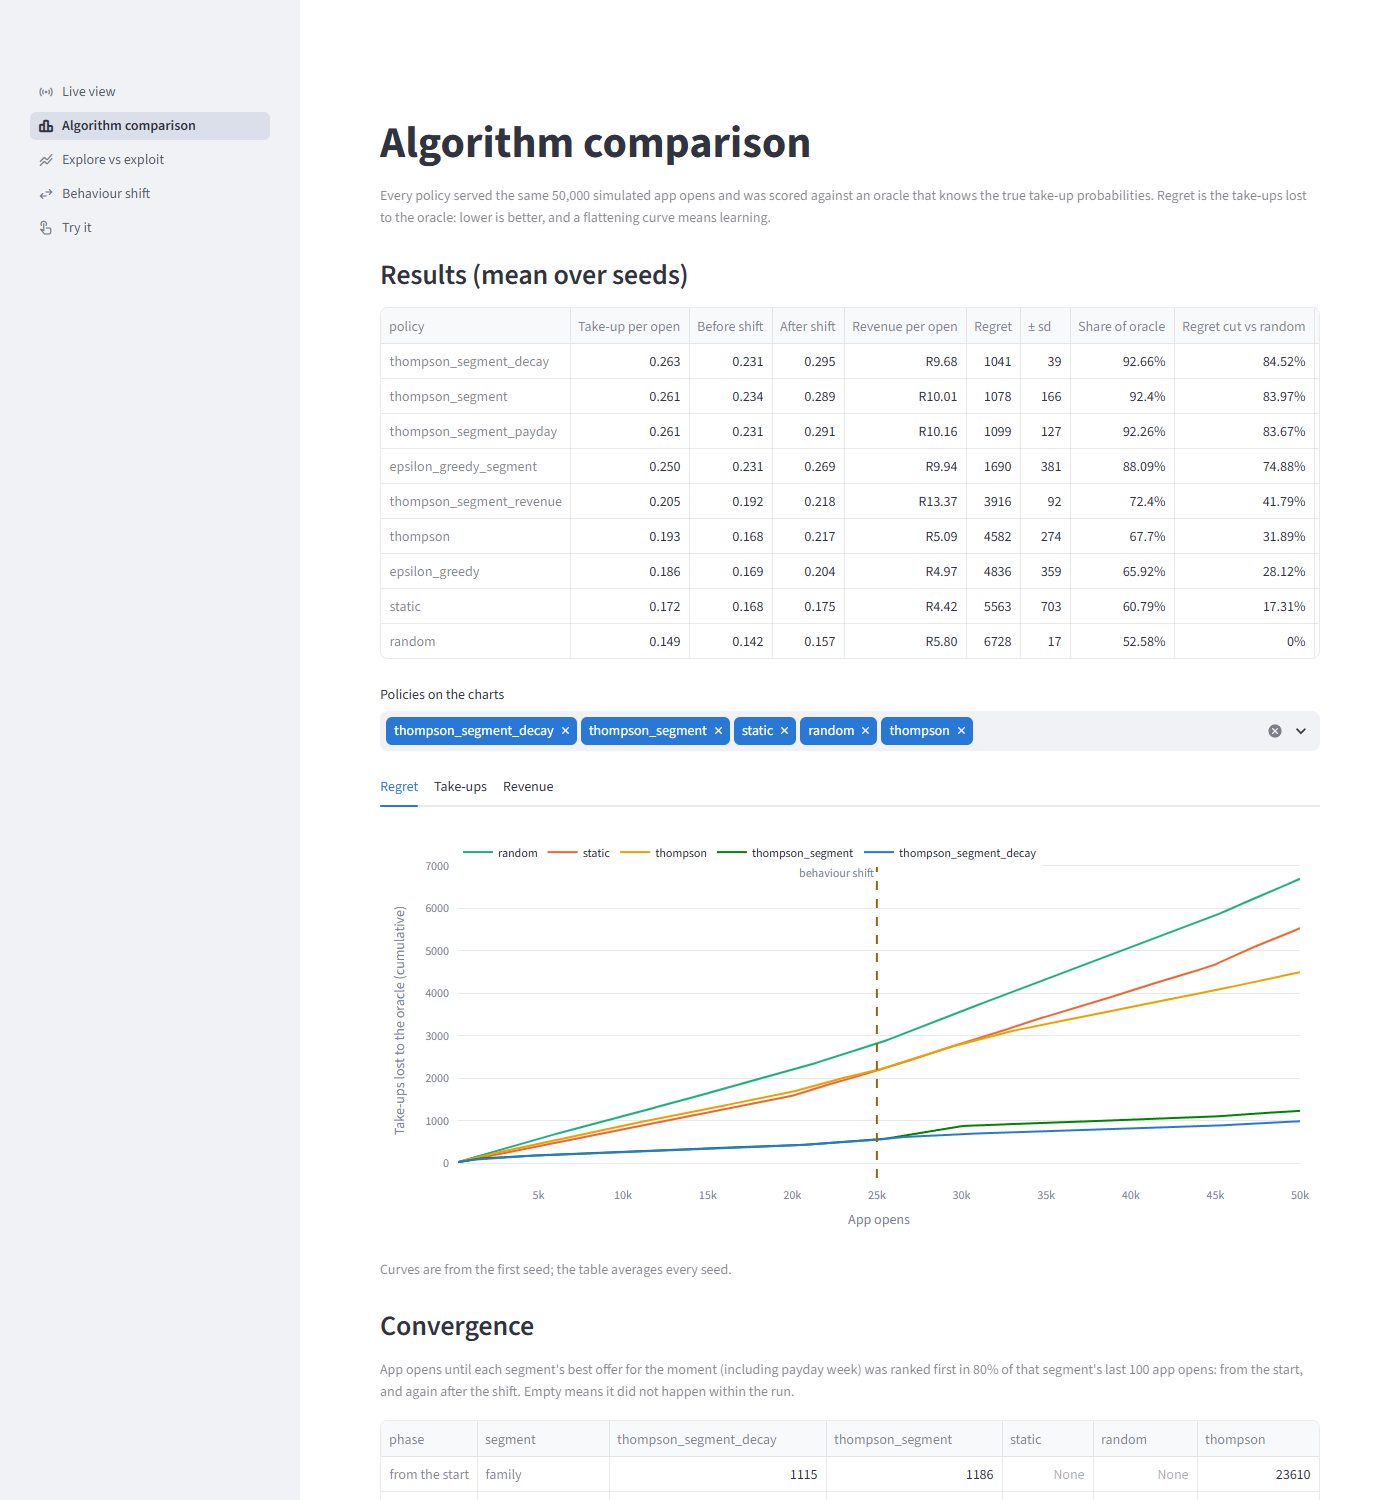
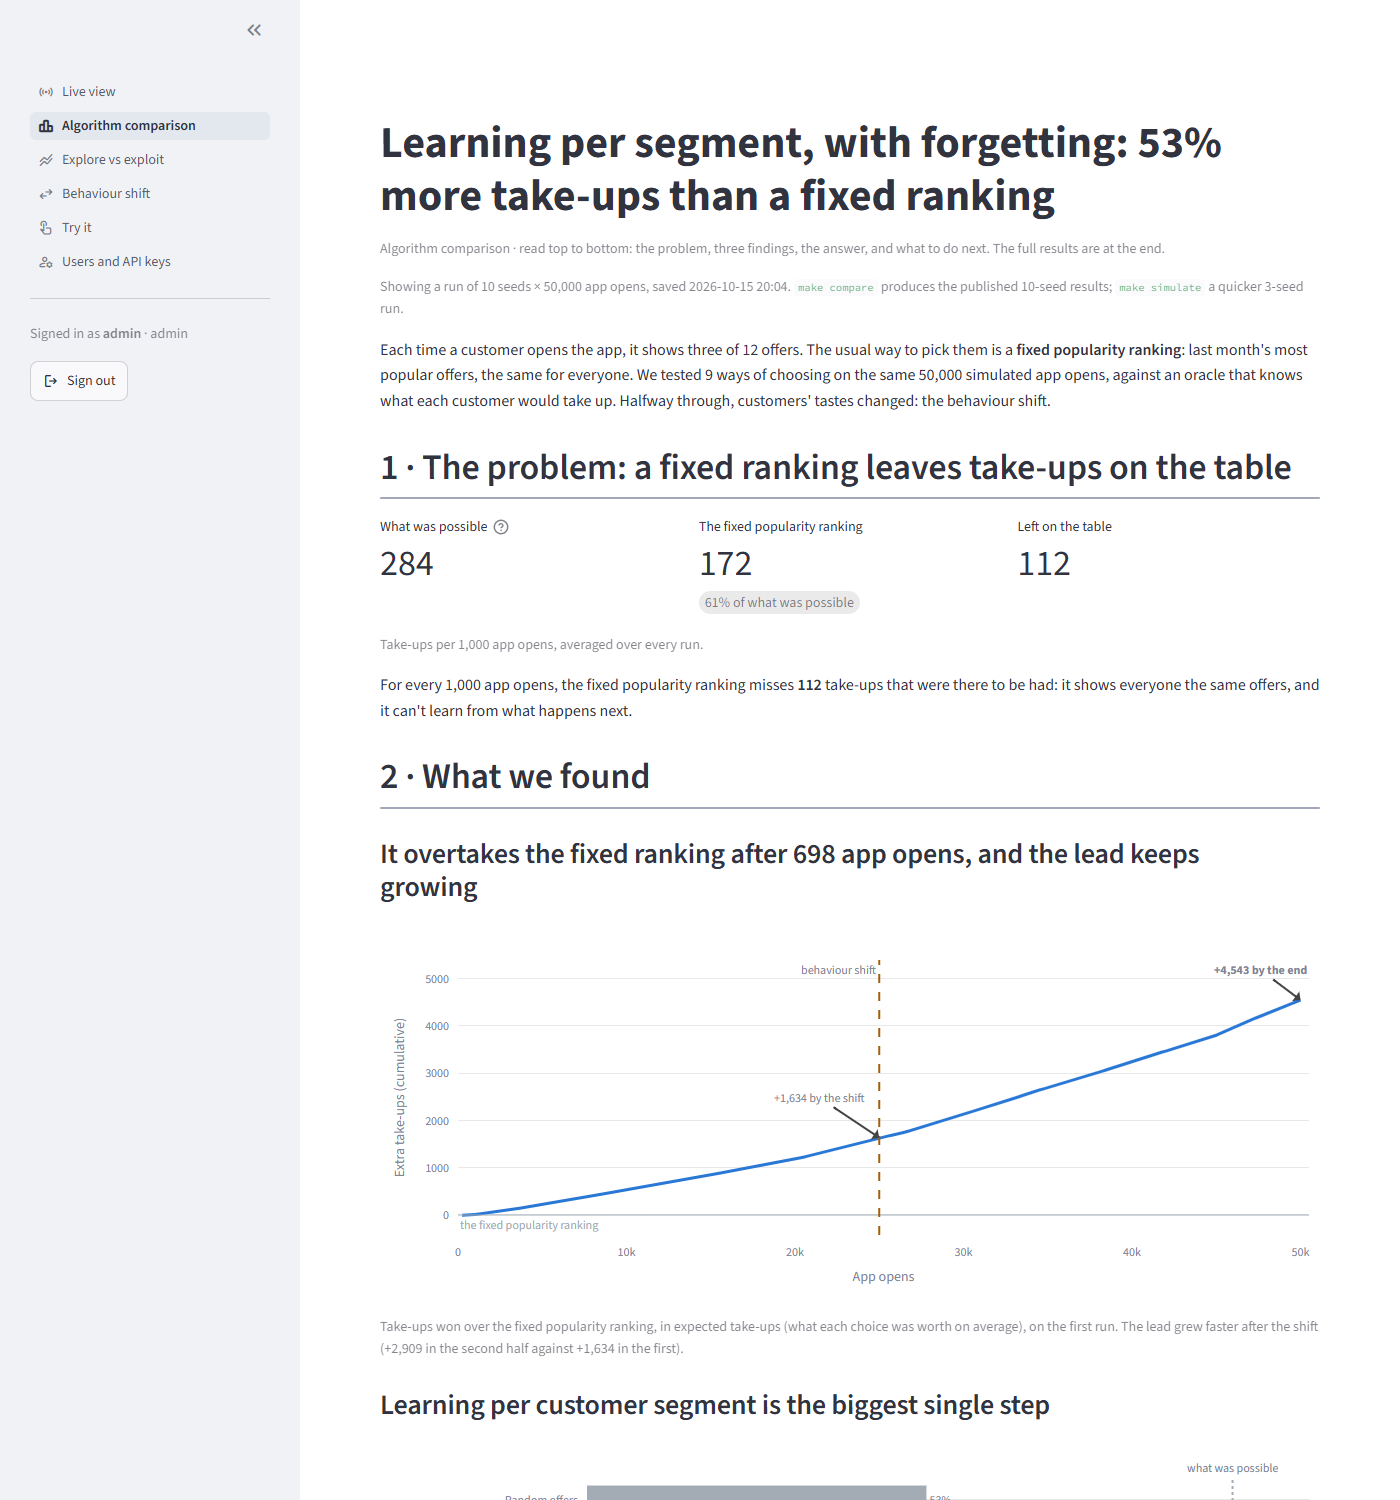
docs: story-led comparison page, sign-in and users pages; fresh screenshots
make screenshots now signs in with an admin account and moves through the
sidebar (a sign-in lasts one browser session), and also captures the
sign-in and Users and API keys pages. Decision E10; E9 updated.

diff --git a/docs/dashboard.html b/docs/dashboard.html
@@ -47,14 +47,16 @@
 <header class="page-head">
   <p class="eyebrow">Dashboard · Phase 5</p>
   <h1>Watching the recommender learn</h1>
-  <p class="lede">Five Streamlit pages: the live event log, the head-to-head comparison, the beliefs behind each ranking, the behaviour shift, and a page where you play the customer and watch the model update.</p>
+  <p class="lede">Everyone signs in first. Then five Streamlit pages: the live event log, the comparison told as a data story, the beliefs behind each ranking, the behaviour shift, and a page where you play the customer and watch the model update. Admins also manage users and API keys.</p>
   <ul class="toc">
     <li><a href="#run">Run it</a></li>
+    <li><a href="#sign-in">Signing in</a></li>
     <li><a href="#live">Live view</a></li>
     <li><a href="#comparison">Algorithm comparison</a></li>
     <li><a href="#beliefs">Explore vs exploit</a></li>
     <li><a href="#shift">Behaviour shift</a></li>
     <li><a href="#try">Try it</a></li>
+    <li><a href="#users">Users and API keys</a></li>
     <li><a href="#data">Where the data comes from</a></li>
     <li><a href="#tests">How it is tested</a></li>
   </ul>
@@ -68,6 +70,12 @@ make dashboard   # http://localhost:8501</code></pre>
   <p>That is the brief's definition of done, verified on a fresh clone with no <code>.env</code>: everything falls back to a local SQLite file and no API server is needed. <code>make simulate</code> takes about four minutes there. Run <code>make compare</code> instead for the published 10-seed results; every results page says which run it is showing.</p>
 </section>
 
+<section aria-labelledby="sign-in">
+  <h2 id="sign-in">Signing in</h2>
+  <p>Accounts live in the <code>users</code> table of the project database, with passwords stored only as salted hashes. On an empty database the first screen creates the admin account instead (or run <code>python manage.py createsuperuser</code>). Viewers see the live view and the results; admins also get Try it, which changes the model, and Users and API keys. A sign-in lasts for the browser tab.</p>
+  <figure class="fig"><img src="assets/screenshots/sign-in.png" alt="The sign-in page: username and password fields under the dashboard's name." loading="lazy"><figcaption><span>Reads and writes the users table. Decisions AC1–AC6.</span></figcaption></figure>
+</section>
+
 <section aria-labelledby="live">
   <h2 id="live">Live view</h2>
   <p>App opens and their outcomes as they reach the event log, refreshing every 3 seconds, and the serving policy's current top three offers per context. Start a simulation through the API (<code>python scripts/run_simulation.py --mode api</code>) and watch it fill.</p>
@@ -76,8 +84,16 @@ make dashboard   # http://localhost:8501</code></pre>
 
 <section aria-labelledby="comparison">
   <h2 id="comparison">Algorithm comparison</h2>
-  <p>The results table, cumulative regret, take-ups and revenue for any set of policies (each keeps one colour on every chart), and convergence: how many app opens each policy needed before each segment's best offer led, from the start and again after the shift.</p>
-  <figure class="fig"><img src="assets/screenshots/comparison.png" alt="Algorithm comparison: the results table and cumulative regret curves per policy, with the behaviour shift marked." loading="lazy"><figcaption><span>Reads results/: comparison.csv, comparison_rounds.parquet, convergence.csv.</span></figcaption></figure>
+  <p>Told as a data story, following Brent Dykes' storytelling arc, so the message gets through to someone who reads it once:</p>
+  <ol>
+    <li><strong>A headline that is the finding</strong> ("53% more take-ups than a fixed ranking"), not the topic.</li>
+    <li><strong>Setting and hook:</strong> what was possible (284 take-ups per 1,000 app opens), what the fixed popularity ranking gets (172), and what it leaves on the table.</li>
+    <li><strong>Three rising insights, one chart and one message each:</strong> the learner overtakes the fixed ranking after about 700 app opens and keeps pulling away; learning per customer segment is the biggest single step; when customers changed, only the learner followed. Colour goes only to what the message is about; everything else is grey, and the key points are annotated.</li>
+    <li><strong>The aha moment:</strong> "91 more take-ups for every 1,000 app opens", with how many runs agree and the honest note that the closest variants tie.</li>
+    <li><strong>What to do next:</strong> serve the policy, decide between take-ups and revenue, prove it on real traffic with a holdout, keep watching.</li>
+  </ol>
+  <p>Plain names replace policy ids for a business reader. Every number and claim is computed from the run on disk by <code>recommender.evaluation.story</code>, so a 3-seed run says "of 3 runs" and never borrows the published numbers. The full table, curves for any set of policies and convergence sit in an expander at the end.</p>
+  <figure class="fig"><img src="assets/screenshots/comparison.png" alt="Algorithm comparison as a story: the headline finding, the hook figures 284, 172 and 112 take-ups per 1,000 app opens, and the first finding's chart of extra take-ups over the fixed ranking." loading="lazy"><figcaption><span>Reads results/: comparison.csv, comparison_by_seed.csv, comparison_rounds.parquet, convergence.csv.</span></figcaption></figure>
 </section>
 
 <section aria-labelledby="beliefs">
@@ -95,7 +111,14 @@ make dashboard   # http://localhost:8501</code></pre>
 <section aria-labelledby="try">
   <h2 id="try">Try it</h2>
   <p>Pick a segment, a customer, a policy and optionally the moment; open the app; then take up, view or ignore each offer and see the belief for that offer update. It calls the API server if one is running, otherwise the same FastAPI app inside the dashboard, so the code path is identical. Every click is real learning in the database.</p>
-  <figure class="fig"><img src="assets/screenshots/try-it.png" alt="Try it: three ranked offers for a student; the first was taken up and the belief rose from 21.8 percent to 22.1 percent." loading="lazy"><figcaption><span>Calls POST /invocations, POST /response and GET /policies/{name}/state.</span></figcaption></figure>
+  <p>Admins only, since every click changes the model.</p>
+  <figure class="fig"><img src="assets/screenshots/try-it.png" alt="Try it: three ranked offers for a student; the first, a savings pocket, was taken up and its belief rose from 5.0 percent to 9.5 percent on little evidence." loading="lazy"><figcaption><span>Calls POST /invocations, POST /response and GET /policies/{name}/state.</span></figcaption></figure>
+</section>
+
+<section aria-labelledby="users">
+  <h2 id="users">Users and API keys</h2>
+  <p>Admins only. Add users as viewers or admins, change passwords, remove users, and create or revoke API keys. A new key is shown once and stored only as a hash. Whether the API requires keys is one setting in <code>.env</code>: <code>RECOMMENDER_REQUIRE_API_KEY</code>.</p>
+  <figure class="fig"><img src="assets/screenshots/users.png" alt="Users and API keys: a table of users with roles and last sign-in, forms to add a user and change a password, and the API keys section." loading="lazy"><figcaption><span>Reads and writes the users and api_keys tables.</span></figcaption></figure>
 </section>
 
 <section aria-labelledby="data">
@@ -105,10 +128,11 @@ make dashboard   # http://localhost:8501</code></pre>
       <thead><tr><th>Page</th><th>Reads</th><th>Up to date</th></tr></thead>
       <tbody>
         <tr><td>Live view</td><td>Event log and options store in the database</td><td>Every 3 seconds</td></tr>
-        <tr><td>Algorithm comparison</td><td><code>results/comparison.csv</code>, <code>comparison_rounds.parquet</code>, <code>convergence.csv</code></td><td>When a new run is saved</td></tr>
+        <tr><td>Algorithm comparison</td><td><code>results/comparison.csv</code>, <code>comparison_by_seed.csv</code>, <code>comparison_rounds.parquet</code>, <code>convergence.csv</code></td><td>When a new run is saved</td></tr>
         <tr><td>Explore vs exploit</td><td><code>results/comparison_snapshots.parquet</code></td><td>When a new run is saved</td></tr>
         <tr><td>Behaviour shift</td><td><code>results/comparison_rounds.parquet</code>, <code>convergence.csv</code></td><td>When a new run is saved</td></tr>
         <tr><td>Try it</td><td>The API</td><td>Live</td></tr>
+        <tr><td>Users and API keys</td><td>The users and api_keys tables</td><td>Live</td></tr>
       </tbody>
     </table>
   </div>

diff --git a/docs/decisions.html b/docs/decisions.html
@@ -344,7 +344,8 @@
 <tr><td>E6</td><td>The live view uses plain tables (<code>st.table</code>), not interactive grids.</td><td>Grids re-mount on every 3-second refresh and flash empty; 15 rows read better as a table.</td></tr>
 <tr><td>E7</td><td>Dashboard tests use Streamlit's AppTest against a throwaway SQLite database and results folder, redirected with <code>RECOMMENDER_DATABASE_URL</code>, <code>RECOMMENDER_RESULTS</code> and <code>RECOMMENDER_API_URL</code>. They check content and click through Try it.</td><td>The first version only checked for exceptions and read the real Postgres. Now nothing real is touched (event counts were identical before and after a test run), and the main user flow is proven.</td></tr>
 <tr><td>E8</td><td>One fixed colour per policy on every chart (the docs' categorical palette, in order; a ninth policy is grey), and the shift marked on every time chart.</td><td>Colour follows the policy, never its rank or the chart, so a reader can follow a policy across pages.</td></tr>
-<tr><td>E9</td><td>Screenshots come from <code>make screenshots</code> (Playwright driving the installed Chrome or Edge).</td><td>Reproducible images for the README and docs without a browser download.</td></tr>
+<tr><td>E9</td><td>Screenshots come from <code>make screenshots</code> (Playwright driving the installed Chrome or Edge). It signs in with an admin account and moves between pages through the sidebar, because a sign-in lasts for one browser session.</td><td>Reproducible images for the README and docs without a browser download.</td></tr>
+<tr><td>E10</td><td><strong>The comparison page tells a story</strong> (Brent Dykes' data storytelling arc). The headline is the finding. The setting and hook show what was possible against what a fixed ranking gets. Three findings follow, one chart and one message each, with colour only on what the message is about. Then the answer in one sentence, and next steps. Plain names replace policy ids. The full tables are folded away at the end.</td><td>A reader who sees the page once should leave with the message, not a table to decode. All the numbers come from <code>recommender.evaluation.story</code>, which computes them from the run on disk, counts how many runs back each claim, and says when the top policies tie, so the story can't overstate the evidence.</td></tr>
 </tbody></table></div>
 <h3 id="log-phase-6-quality-and-delivery">Phase 6: Quality and delivery</h3>
 <div class="table-wrap"><table class="decision-log">

diff --git a/docs/stack.html b/docs/stack.html
@@ -176,6 +176,7 @@
 <tr><td>Result pages explain how to get results</td><td class="num">3</td></tr>
 <tr><td>Live view counts the logged app opens</td><td class="num">1</td></tr>
 <tr><td>Comparison lists every policy and says which run</td><td class="num">1</td></tr>
+<tr><td>Comparison tells the story in order</td><td class="num">1</td></tr>
 <tr><td>Try it updates the model</td><td class="num">1</td></tr>
 <tr><td>First run creates the admin and signs in</td><td class="num">1</td></tr>
 <tr><td>Sign in needs the right password</td><td class="num">1</td></tr>
@@ -292,8 +293,13 @@
 <tr><td>Sqlite store persists across connections</td><td class="num">1</td></tr>
 <tr><td>Alpha and beta are computed by the database</td><td class="num">1</td></tr>
 <tr><td>Copy options migrates every row and can be rerun</td><td class="num">1</td></tr>
+<tr><th colspan="2" scope="rowgroup"><code>tests/test_story.py</code> · </th></tr>
+<tr><td>The story of a run</td><td class="num">1</td></tr>
+<tr><td>When the learner overtakes the baseline</td><td class="num">1</td></tr>
+<tr><td>Gap curve samples the cumulative lead</td><td class="num">1</td></tr>
+<tr><td>Plain names for a business audience</td><td class="num">1</td></tr>
 </tbody>
-<caption>162 test cases in 147 test functions.</caption></table></div>
+<caption>167 test cases in 152 test functions.</caption></table></div>
 <!-- END generated:tests -->
   <p class="source">Collected from tests/ · rebuilt by make docs</p>
 </section>

diff --git a/docs/index.html b/docs/index.html
@@ -62,7 +62,7 @@
 <div><dt>synthetic customers</dt><dd>5,000</dd></div>
 <div><dt>simulated days</dt><dd>60</dd></div>
 <div><dt>context effects</dt><dd>14</dd></div>
-<div><dt>automated tests</dt><dd>162</dd></div>
+<div><dt>automated tests</dt><dd>167</dd></div>
 </dl>
 <!-- END generated:facts -->
   <p class="source">From config/, the simulator and tests/ · rebuilt by <code>make docs</code></p>

diff --git a/scripts/screenshots.py b/scripts/screenshots.py
@@ -1,25 +1,32 @@
 """Screenshot every dashboard page, for the README and the docs.
 
-Usage:  python scripts/screenshots.py [--url http://localhost:8501]      (make screenshots)
-Needs the dashboard running (make dashboard) and Chrome or Edge installed; Playwright
-drives the installed browser, so no browser download is needed.
+Usage:  python scripts/screenshots.py [--url http://localhost:8501] [--username admin]
+                                                                        (make screenshots)
+Needs the dashboard running (make dashboard), an admin account to sign in with (the
+password from RECOMMENDER_SCREENSHOT_PASSWORD, or asked for), and Chrome or Edge
+installed; Playwright drives the installed browser, so no browser download is needed.
+A sign-in lasts for one browser session, so the pages are reached through the sidebar,
+not by URL.
 """
 
 from __future__ import annotations
 
 import argparse
+import getpass
+import os
 from pathlib import Path
 
 from playwright.sync_api import Page, sync_playwright
 
 from recommender.config import PROJECT_ROOT
 
-PAGES = {  # file name -> URL path
-    "live": "",
-    "comparison": "comparison",
-    "beliefs": "beliefs",
-    "shift": "shift",
-    "try-it": "try_it",
+PAGES = {  # file name -> the page's name in the sidebar
+    "live": "Live view",
+    "comparison": "Algorithm comparison",
+    "beliefs": "Explore vs exploit",
+    "shift": "Behaviour shift",
+    "try-it": "Try it",
+    "users": "Users and API keys",
 }
 
 
@@ -32,14 +39,27 @@ def wait_until_drawn(page: Page) -> None:
     page.wait_for_timeout(3000)  # let Plotly finish its layout
 
 
+def sign_in(page: Page, username: str, password: str) -> None:
+    """Fill in the sign-in form and wait for the first page behind it."""
+    page.get_by_role("textbox", name="Username").fill(username)
+    page.get_by_role("textbox", name="Password").fill(password)
+    page.get_by_role("button", name="Sign in").click()
+    page.wait_for_selector("text=Signed in as", timeout=90_000)
+
+
 def main() -> None:
+    """Sign in, then screenshot each page in turn."""
     parser = argparse.ArgumentParser(description=__doc__.splitlines()[0])
     parser.add_argument("--url", default="http://localhost:8501")
     parser.add_argument(
         "--out", type=Path, default=PROJECT_ROOT / "docs" / "assets" / "screenshots"
     )
+    parser.add_argument("--username", default="admin", help="an admin account")
     args = parser.parse_args()
     args.out.mkdir(parents=True, exist_ok=True)
+    password = os.environ.get("RECOMMENDER_SCREENSHOT_PASSWORD") or getpass.getpass(
+        f"Password for {args.username}: "
+    )
 
     with sync_playwright() as playwright:
         try:
@@ -47,15 +67,21 @@ def main() -> None:
         except Exception:  # noqa: BLE001 - fall back to Edge, which every Windows machine has
             browser = playwright.chromium.launch(channel="msedge")
         page = browser.new_page(viewport={"width": 1400, "height": 1500})
-        for name, path in PAGES.items():
-            page.goto(f"{args.url}/{path}")
+        page.goto(args.url, wait_until="domcontentloaded")
+        page.wait_for_selector("input[type=password]", timeout=90_000)
+        page.screenshot(path=args.out / "sign-in.png")
+        print("saved sign-in.png")
+        sign_in(page, args.username, password)
+        for name, title in PAGES.items():
+            page.get_by_role("link", name=title).click()
             wait_until_drawn(page)
+            page.wait_for_timeout(5000)  # the comparison story computes on first view
             if name == "try-it":  # show a real app open and one response
                 page.get_by_role("button", name="Open the app").click()
                 page.get_by_role("button", name="Take up").first.click()
                 wait_until_drawn(page)
             page.screenshot(path=args.out / f"{name}.png", full_page=True)
-            print(f"saved {(args.out / f'{name}.png').relative_to(PROJECT_ROOT)}")
+            print(f"saved {name}.png")
         browser.close()
 
 

diff --git a/DECISIONS.md b/DECISIONS.md
@@ -98,7 +98,8 @@ Ambiguities in the brief, the default I picked, and why. Newest at the bottom of
 | E6 | The live view uses plain tables (`st.table`), not interactive grids. | Grids re-mount on every 3-second refresh and flash empty; 15 rows read better as a table. |
 | E7 | Dashboard tests use Streamlit's AppTest against a throwaway SQLite database and results folder, redirected with `RECOMMENDER_DATABASE_URL`, `RECOMMENDER_RESULTS` and `RECOMMENDER_API_URL`. They check content and click through Try it. | The first version only checked for exceptions and read the real Postgres. Now nothing real is touched (event counts were identical before and after a test run), and the main user flow is proven. |
 | E8 | One fixed colour per policy on every chart (the docs' categorical palette, in order; a ninth policy is grey), and the shift marked on every time chart. | Colour follows the policy, never its rank or the chart, so a reader can follow a policy across pages. |
-| E9 | Screenshots come from `make screenshots` (Playwright driving the installed Chrome or Edge). | Reproducible images for the README and docs without a browser download. |
+| E9 | Screenshots come from `make screenshots` (Playwright driving the installed Chrome or Edge). It signs in with an admin account and moves between pages through the sidebar, because a sign-in lasts for one browser session. | Reproducible images for the README and docs without a browser download. |
+| E10 | **The comparison page tells a story** (Brent Dykes' data storytelling arc). The headline is the finding. The setting and hook show what was possible against what a fixed ranking gets. Three findings follow, one chart and one message each, with colour only on what the message is about. Then the answer in one sentence, and next steps. Plain names replace policy ids. The full tables are folded away at the end. | A reader who sees the page once should leave with the message, not a table to decode. All the numbers come from `recommender.evaluation.story`, which computes them from the run on disk, counts how many runs back each claim, and says when the top policies tie, so the story can't overstate the evidence. |
 
 ## Phase 6: Quality and delivery
 

diff --git a/README.md b/README.md
@@ -144,7 +144,7 @@ Other endpoints: `GET /offers`, `GET /customers?segment=student`, `GET /policies
 | Page | Shows |
 |---|---|
 | Live view | App opens and outcomes as they arrive, and the serving policy's current top offers per segment |
-| Algorithm comparison | The results table, cumulative regret, take-ups and revenue per policy, and how fast each converged |
+| Algorithm comparison | The findings as a data story: what a fixed ranking leaves on the table, three findings with one chart each, the answer and next steps; the full results underneath |
 | Explore vs exploit | The Beta belief behind every offer at any point in a run |
 | Behaviour shift | How quickly each policy noticed the new favourites after the shift |
 | Try it (admins) | Play a customer: open the app, take up or ignore offers, and watch the belief move |
